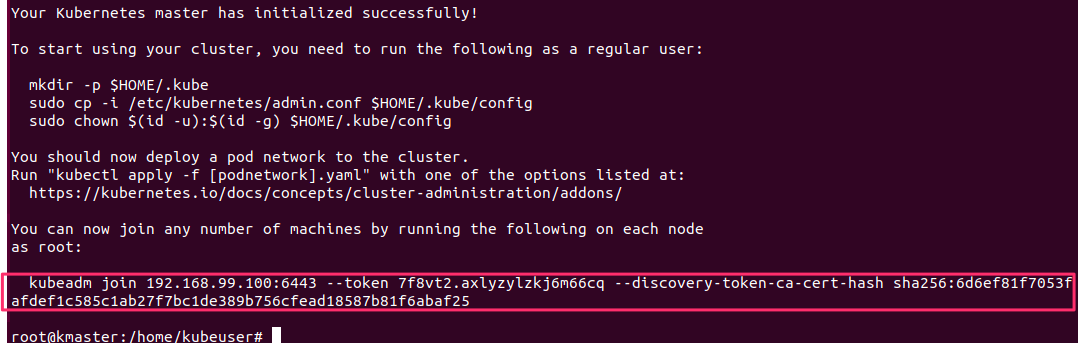
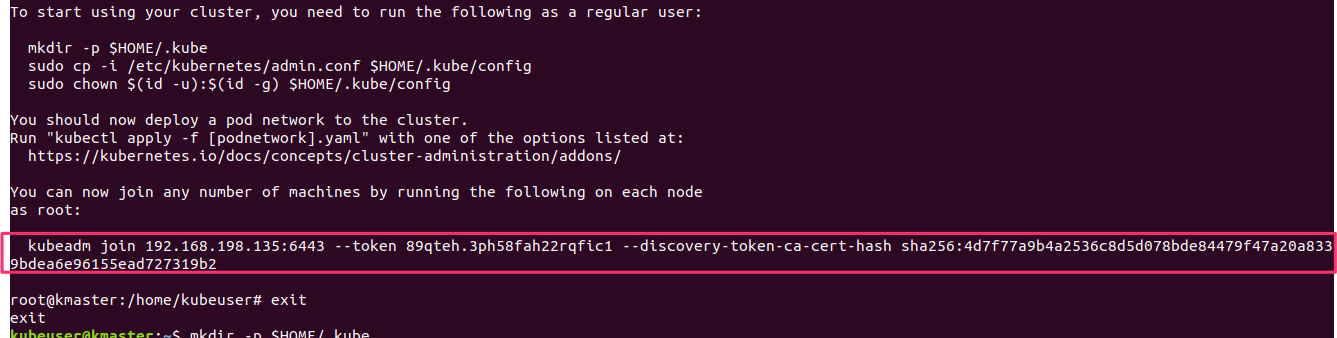
more vmware

Changed region(s): [[0.0, 0.0, 1.0, 1.0], [0.0, 0.0, 0.5204, 0.0592]]

diff --git a/README.md b/README.md
@@ -302,11 +302,11 @@ The following steps use VMWare Fusion, but using the concepts displayed below, y
 
 ### **Step 8**: Configure Kubernetes Master - Run **ONLY on kmaster** image
 
-- As sudo, start the kubernetes cluster. **Note**: We will be using a Flannel network, so we are using 10.244.0.0/16 for the pod-network-cidr. **Replace \<ip-address-of-kmaster-vm\>** with your kmaster's host address.
+- As sudo, start the kubernetes cluster. **Note**: We will be using a Flannel network, so we are using 10.244.0.0/16 for the pod-network-cidr, and this address does not need to be changed. However, **Replace** the text (`REPLACE-WITH-kmaster-IPADDRESS`) with your kmaster's host address.
 
     ```
     sudo su
-    kubeadm init --apiserver-advertise-address=<ip-address-of-kmaster-vm> --pod-network-cidr=10.244.0.0/16
+    kubeadm init --pod-network-cidr=10.244.0.0/16 --apiserver-advertise-address=REPLACE-WITH-kmaster-IPADDRESS
     ```
 
     ![](images/img27.png)
@@ -419,9 +419,12 @@ The following steps use VMWare Fusion, but using the concepts displayed below, y
     
     ```
     sudo su
-    < use the kubeadmin join command you coppied earlier for example: >
-    kubeadm join 192.168.99.100:6443 --token 7f8vt2.axlyzylzkj6m66cq --discovery-token-ca-cert-hash sha256:6d6ef81f7053fafdef1c585c1ab27f7bc1de389b756cfead18587b81f6abaf25
     ```
+
+ - Use the **kubeadmin join** command you saved earlier to join **knode** to **kmaster**
+
+    ![](images/img224.png)
+
     
 ### **Step 11**: Install a test application
 
